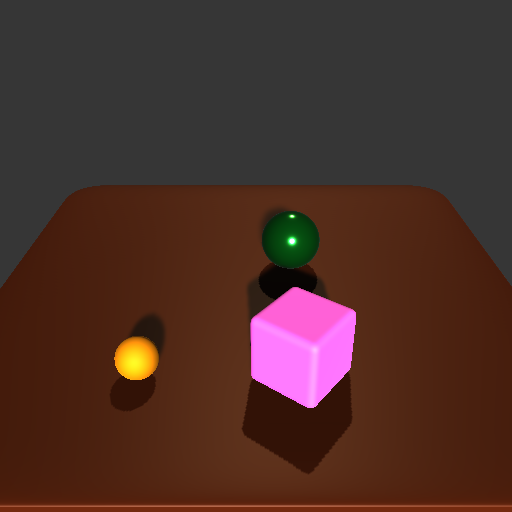
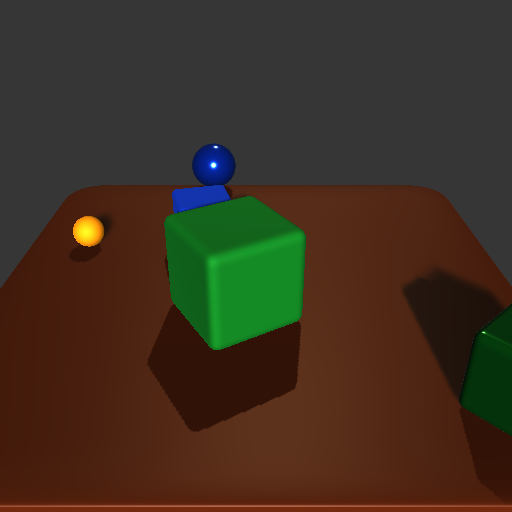
fix bugs generate a bigger dataset (140 scenes)

Changed region(s): [[0.2188, 0.2812, 0.7188, 0.9375], [0.7812, 0.5312, 1.0, 0.8438], [0.125, 0.4062, 0.2188, 0.5]]

diff --git a/Assets/Scripts/VisualObjs.cs b/Assets/Scripts/VisualObjs.cs
@@ -5,22 +5,21 @@ using System.Collections.Generic;
 using System.Globalization;
 using Newtonsoft.Json;
 using UnityEngine;
-using UnityEditor;
 using Pngcs.Unity;
-using Object = UnityEngine.Object;
+
 
 public partial class VisualObjs : MonoBehaviour
 {
-    static int RANDOM_OBJ_NUM = 3;
-    private static int FRAMELOOP = 10;
-    int MAX_NUM_TRIES = 50;
+    private int _objNum;
+    private static int _frameLoop = 10;
+    int _maxNumTries = 50;
     float TABLE_WIDTH_BASE = 1.5F;
     float TABLE_LENGTH_BASE = 1.5F;
     float TABLE_HEIGHT_BASE = 0.1F;
     float UNIFY_RADIUS = 0.5F;
     float MINIMUM_OBJ_DIST = (float)0.1;
     private float MINIMUM_SCALE_RANGE = 0.15F;
-    private float MAXIMUM_SCALE_RANGE = 0.4F;
+    private float MAXIMUM_SCALE_RANGE = 0.3F;
 
     public int single_idx = 1;
     public List<GameObject> train_models;
@@ -49,7 +48,7 @@ public partial class VisualObjs : MonoBehaviour
     private Camera cam;
     public GameObject tableModel;
 
-    List<GameObject> objInsts = new List<GameObject>(new GameObject[RANDOM_OBJ_NUM]);
+    private List<GameObject> objInsts;
     private GameObject tableInst;
 
 
@@ -60,10 +59,16 @@ public partial class VisualObjs : MonoBehaviour
     float table_width;
     float table_height;
     int fileCounter = 0;
-    int maxFileCounter = 20;
-    int train_end_idx = 10;
-    int validation_end_idx = 15;
-    int test_end_idx = 20;
+    int maxFileCounter;
+
+    private int _trainNum = 100;
+    private int _testNum = 20;
+    private int _valNum = 20;
+
+    // int train_end_idx = 10;
+    // int validation_end_idx = 15;
+    // int test_end_idx = 20;
+
     int modelIdx = -1;
     float scale_factor = 1;
 
@@ -98,22 +103,28 @@ public partial class VisualObjs : MonoBehaviour
         table_length = TABLE_LENGTH_BASE * scale_factor;
         table_width = TABLE_WIDTH_BASE * scale_factor;
         table_height = TABLE_HEIGHT_BASE * scale_factor;
-
+        maxFileCounter = _trainNum + _valNum + _testNum;
+        
         StreamReader streamReader = new StreamReader(Application.dataPath + "/Scripts/Rules/front.json");
         string json = streamReader.ReadToEnd();
         rulesJson = JsonConvert.DeserializeObject<Rules>(json);
+        if (rulesJson != null)
+        {
+            _objNum = rulesJson.RandomObjPerScene + rulesJson.RuleObjPerScene + rulesJson.TargetObjPerScene;
+            objInsts = new List<GameObject>(new GameObject[_objNum]);
+        }
     }
 
     // Update is called once per frame
     void Update()
     {
-        // change train/eval/test models
-        if (fileCounter >= validation_end_idx)
+        // generate test scenes
+        if (fileCounter >= _trainNum + _valNum)
         {
             saved_path = root_path + "test/";
             models = test_models;
         }
-        else if (fileCounter >= train_end_idx)
+        else if (fileCounter >= _trainNum)
         {
             models = test_models;
             saved_path = root_path + "val/";
@@ -124,7 +135,7 @@ public partial class VisualObjs : MonoBehaviour
         }
 
         // save the scene data if it is a new scene
-        if (frames % FRAMELOOP == FRAMELOOP - 1 && newScene)
+        if (frames % _frameLoop == _frameLoop - 1 && newScene)
         {
             Calibration camera0 = getCameraMatrix();
             DepthMap depthMap0 = CaptureDepth("depth0");
@@ -137,7 +148,7 @@ public partial class VisualObjs : MonoBehaviour
         }
 
         // render the scene
-        if (frames % FRAMELOOP == 0 && fileCounter < maxFileCounter)
+        if (frames % _frameLoop == 0 && fileCounter < maxFileCounter)
         {
             if (fileCounter == 2)
             {
@@ -145,9 +156,9 @@ public partial class VisualObjs : MonoBehaviour
             }
 
             // change configurations if necessary
-            SceneData = new SceneStruct(RANDOM_OBJ_NUM, fileCounter);
+            SceneData = new SceneStruct(_objNum, fileCounter);
 
-            for (int i = 0; i < RANDOM_OBJ_NUM; i++)
+            for (int i = 0; i < _objNum; i++)
             {
                 if (objInsts[i] != null) Destroy(objInsts[i]);
             }
@@ -156,7 +167,7 @@ public partial class VisualObjs : MonoBehaviour
 
             int envIdx = new System.Random().Next(0, environments.Count);
             environmentMap.SetTexture("_Tex", danceRoomEnvironment);
-            if (frames % FRAMELOOP == 0) modelIdx = (modelIdx + 1) % models.Count;
+            if (frames % _frameLoop == 0) modelIdx = (modelIdx + 1) % models.Count;
 
             // instantiate the table
             Quaternion rotation = Quaternion.Euler(UnityEngine.Random.Range((float)0, (float)0),
@@ -171,6 +182,7 @@ public partial class VisualObjs : MonoBehaviour
             {
                 placeLayoutFinished = placeObjsRandomly();
             }
+
             renderObjs();
             newScene = true;
         }
@@ -178,7 +190,7 @@ public partial class VisualObjs : MonoBehaviour
         frames++;
 
         // stop rendering when file number exceeded the threshold
-        if (fileCounter >= test_end_idx)
+        if (fileCounter >= _trainNum + _testNum + _valNum)
         {
             UnityEditor.EditorApplication.isPlaying = false;
         }
@@ -189,11 +201,9 @@ public partial class VisualObjs : MonoBehaviour
     {
         // List<Vector3> objPlaces = new List<Vector3>(new Vector3[RANDOM_OBJ_NUM]);
         int objIdx = 0;
-
         // add target object
         addRuleObj(0, rulesJson.target);
         objIdx++;
-
         // add rule objects
         for (int i = 0; i < rulesJson.objs.Count; i++)
         {
@@ -206,11 +216,16 @@ public partial class VisualObjs : MonoBehaviour
         }
 
         // add random objects
-        for (int i = objIdx; i < RANDOM_OBJ_NUM; i++)
+        for (int i = objIdx; i < _objNum; i++)
         {
-            addRandomObj(i);
+            bool objGood = addRandomObj(i);
             objIdx++;
+            if (!objGood)
+            {
+                return false;
+            }
         }
+
         return true;
     }
 
@@ -222,15 +237,15 @@ public partial class VisualObjs : MonoBehaviour
         // init obj
 
         int num_tries = 0;
-        float obj_radius = propMapping[objProp.size] * UNIFY_RADIUS;
-        GameObject obj_model = models[(int)propMapping[objProp.Shape]];
+        float obj_radius = strFloMapping[objProp.size] * UNIFY_RADIUS;
+        GameObject obj_model = models[(int)strFloMapping[objProp.Shape]];
         Vector3 obj_pos;
         // find a 3D position for the new object
         while (true)
         {
             num_tries += 1;
             // exceed the maximum trying time
-            if (num_tries > MAX_NUM_TRIES) return false;
+            if (num_tries > _maxNumTries) return false;
 
             // check for positions
             bool pos_good = true;
@@ -267,7 +282,7 @@ public partial class VisualObjs : MonoBehaviour
         }
 
         // for cubes, adjust its radius
-        if (objProp.Shape == "Cube") obj_radius *= (float)Math.Sqrt(2);
+        if (objProp.Shape == "cube") obj_radius *= (float)Math.Sqrt(2);
         // Obj3D target3D = new Obj3D(obj_pos, obj_radius);
 
         // record the object data
@@ -277,12 +292,13 @@ public partial class VisualObjs : MonoBehaviour
     }
 
 
-    void addRandomObj(int objIdx)
+    bool addRandomObj(int objIdx)
     {
         int num_tries = 0;
         float new_scale;
         // choose a random new model
         GameObject new_model = models[UnityEngine.Random.Range(0, models.Count)];
+        string shape_name = strStrMapping[new_model.name];
         float obj_radius;
         Vector3 obj_pos = new Vector3();
 
@@ -291,7 +307,8 @@ public partial class VisualObjs : MonoBehaviour
         {
             num_tries += 1;
             // exceed the maximum trying time
-            if (num_tries > MAX_NUM_TRIES) placeObjsRandomly();
+            if (num_tries > _maxNumTries) return false;
+
             // choose new size and position
             new_scale = UnityEngine.Random.Range(MINIMUM_SCALE_RANGE, MAXIMUM_SCALE_RANGE) * scale_factor;
             obj_radius = new_scale * UNIFY_RADIUS;
@@ -313,7 +330,7 @@ public partial class VisualObjs : MonoBehaviour
                 if (dist - obj_radius - SceneData.Objects[i].Size < MINIMUM_OBJ_DIST)
                 {
                     dists_good = false;
-                    break;
+                    return false;
                 }
             }
 
@@ -321,18 +338,19 @@ public partial class VisualObjs : MonoBehaviour
         }
 
         // create the new object
-        GameObject objInst = NewObjectInstantiate(obj_radius * 2, obj_pos, new_model, "");
+        // GameObject objInst = NewObjectInstantiate(obj_radius * 2, obj_pos, new_model, "");
 
         // for cubes, adjust its radius
-        if (objInst.name == "Cube") obj_radius *= (float)Math.Sqrt(2);
+        if (shape_name == "cube") obj_radius *= (float)Math.Sqrt(2);
 
         // record the object data
         SceneData.Objects[objIdx] = new ObjectStruct(
             objIdx,
-            objInst.name,
-            objInst.GetComponent<MeshRenderer>().material.name.Replace(" (Instance)", ""),
+            shape_name,
+            "",
             obj_radius,
             obj_pos);
+        return true;
     }
 
     void renderObjs()
@@ -341,12 +359,12 @@ public partial class VisualObjs : MonoBehaviour
         {
             float objSize = SceneData.Objects[i].Size;
             // for cubes, adjust its radius
-            if (SceneData.Objects[i].Shape == "Cube") objSize = SceneData.Objects[i].Size / (float)Math.Sqrt(2);
+            if (SceneData.Objects[i].Shape == "cube") objSize = SceneData.Objects[i].Size / (float)Math.Sqrt(2);
 
             objInsts[i] = NewObjectInstantiate(
                 objSize * 2,
                 SceneData.Objects[i].Position,
-                models[(int)propMapping[SceneData.Objects[i].Shape]],
+                models[(int)strFloMapping[SceneData.Objects[i].Shape]],
                 SceneData.Objects[i].Material);
 
 
@@ -370,7 +388,7 @@ public partial class VisualObjs : MonoBehaviour
         {
             if (material != "")
             {
-                rend.material = materials[(int)propMapping[material]];
+                rend.material = materials[(int)strFloMapping[material]];
             }
             else
             {
@@ -428,7 +446,7 @@ public partial class VisualObjs : MonoBehaviour
         image.ReadPixels(new Rect(0, 0, cam.targetTexture.width, cam.targetTexture.height), 0, 0);
         image.Apply();
 
-        for (int i = 0; i < RANDOM_OBJ_NUM; i++)
+        for (int i = 0; i < _objNum; i++)
         {
             objInsts[i].SetActive(false);
         }
@@ -439,7 +457,7 @@ public partial class VisualObjs : MonoBehaviour
         spinCubeImage.ReadPixels(new Rect(0, 0, cam.targetTexture.width, cam.targetTexture.height), 0, 0);
         spinCubeImage.Apply();
 
-        for (int i = 0; i < RANDOM_OBJ_NUM; i++)
+        for (int i = 0; i < _objNum; i++)
         {
             objInsts[i].SetActive(true);
         }
@@ -502,7 +520,7 @@ public partial class VisualObjs : MonoBehaviour
         image.ReadPixels(new Rect(0, 0, cam.targetTexture.width, cam.targetTexture.height), 0, 0);
         image.Apply();
 
-        for (int i = 0; i < RANDOM_OBJ_NUM; i++)
+        for (int i = 0; i < _objNum; i++)
         {
             objInsts[i].SetActive(false);
         }
@@ -512,7 +530,7 @@ public partial class VisualObjs : MonoBehaviour
             false);
         cubeImage.ReadPixels(new Rect(0, 0, cam.targetTexture.width, cam.targetTexture.height), 0, 0);
         cubeImage.Apply();
-        for (int i = 0; i < RANDOM_OBJ_NUM; i++)
+        for (int i = 0; i < _objNum; i++)
         {
             objInsts[i].SetActive(true);
         }
@@ -576,7 +594,7 @@ public partial class VisualObjs : MonoBehaviour
 
 
         String objectData = "\"objects\":[";
-        for (int i = 0; i < RANDOM_OBJ_NUM; i++)
+        for (int i = 0; i < _objNum; i++)
         {
             objectData += "{" +
                           "\"id\":" + SceneData.Objects[i].Id + "," +
@@ -589,7 +607,7 @@ public partial class VisualObjs : MonoBehaviour
                           (float)SceneData.Objects[i].Position[2] +
                           "]" +
                           "}";
-            if (i != RANDOM_OBJ_NUM - 1)
+            if (i != _objNum - 1)
             {
                 objectData += ",";
             }

diff --git a/Assets/Scripts/Utils.cs b/Assets/Scripts/Utils.cs
@@ -103,6 +103,12 @@ public partial class VisualObjs
         [JsonProperty("target")] public ObjProp target;
 
         [JsonProperty("Objs")] public List<ObjProp> objs;
+        
+        [JsonProperty("target_objs_per_scene")] public int TargetObjPerScene;
+        
+        [JsonProperty("rule_objs_per_scene")] public int RuleObjPerScene;
+        
+        [JsonProperty("random_objs_per_scene")] public int RandomObjPerScene;
     }
 
     public struct ObjProp
@@ -115,7 +121,7 @@ public partial class VisualObjs
         [JsonProperty("z")] public float z;
     }
 
-    private Dictionary<string, float> propMapping = new()
+    private Dictionary<string, float> strFloMapping = new()
     {
         { "small", 0.4F },
         { "big", 0.7F },
@@ -123,6 +129,14 @@ public partial class VisualObjs
         { "cube", 0 },
         { "sphere", 1 },
         
-        { "orange", 6 }
+        { "orange", 6 },
     };
+    
+    private Dictionary<string, string> strStrMapping = new()
+    {
+        {"cube_model", "cube"},
+        {"sphere_model", "sphere"}
+    };
+    
+
 }
